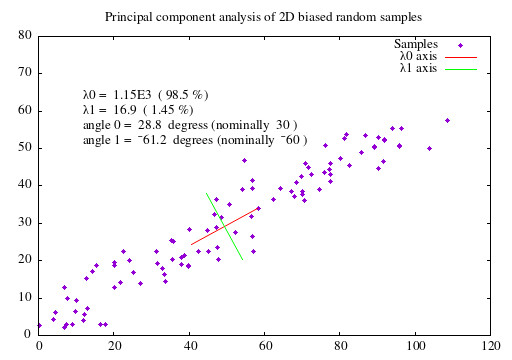
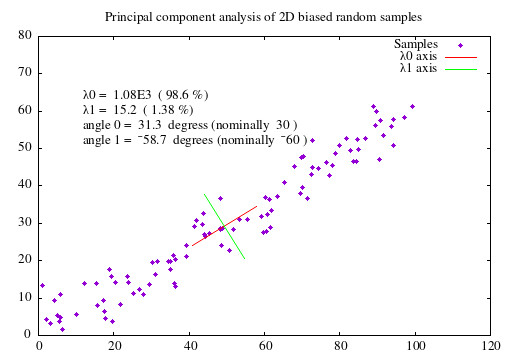
nore update

diff --git a/README.md b/README.md
@@ -57,14 +57,14 @@ It's handy to create named lambdas for the mtx opertions.  The ones I use are:
 <li>eval   ← {mtx['eigenvalue'] ⍵}</li>
 <li>evec   ← {mtx['eigenvector'] ⍵}</li>
 <li>ident  ← {mtx['i'] ⍵}</li>
-<li>cross  ← {⍺ mtx['c'] ⍵}</li>
+<li>crossd ← {⍺ mtx['c'] ⍵}</li>
 <li>crossm ← {mtx['c'] ⍵}</li>
 <li>angle  ← {⍺ mtx['a'] ⍵}</li>
 <li>rotate ← {⍺ mtx['r'] ⍵}</li>
 <li>grand  ← {mtx['g'] ⍵}</li>
 <li>norm   ← {mtx['n'] ⍵}</li>
 <li>homgeneous  ← {⍺ mtx['h'] ⍵}</li>
-<li>cov    ← {⍺ mtx['C'] ⍵}</li>
+<li>covd   ← {⍺ mtx['C'] ⍵}</li>
 <li>covm   ← {mtx['C'] ⍵}</li>
 <li>print  ← {⍺ mtx['p'] ⍵}</li>
 </ul>
@@ -256,10 +256,31 @@ functions:
 
 | lambda       |   function       |                     
 | :----------- | :--------------: |
-| cross        | ⍺ mtx['c'] ⍵ |  
+| crossd       | ⍺ mtx['c'] ⍵ |  
 | crossm       | &nbsp; mtx['c'] ⍵ | 
-| cov          | ⍺ mtx['C'] ⍵ |  
-| crovm        | &nbsp; mtx['C'] ⍵ | 
+| covd         | ⍺ mtx['C'] ⍵ |  
+| crovm        | &nbsp; mtx['C'] ⍵ |
+
+Or, alternatively:
+
+<pre>
+z←l cross r
+→(0≠⎕nc 'l')/Dyadic
+z←mtx['c'] r
+→0
+Dyadic:
+z←l mtx['c'] r
+</pre>
+
+<pre>
+z←l cov r
+→(0≠⎕nc 'l')/Dyadic
+z←mtx['C'] r
+→0
+Dyadic:
+z←l mtx['C'] r
+</pre>
+
 
 #### Cross product
 
@@ -276,7 +297,7 @@ shapes [2 3] or [6 7].  mtx, however, doesn't check this and will happily
 give you a result in any dimensionality and leave it your imagination what
 it may mean.
 
->(1 2 3) cross 4 5 6
+>(1 2 3) crossd 4 5 6
 
 ¯3 6 ¯3
 
@@ -325,7 +346,7 @@ i.e., in this example:
 The dyadic form of covariance returns the covariance of the left and right
 arguments.  E.g.:
 
->2 1 3 cov 3 1 2
+>2 1 3 covd 3 1 2
 
 0.5
 
@@ -377,8 +398,9 @@ The APL for all this:
 
 ---
 <pre>
-m←c pca e;x;y;c;d;el;ec;xb;yb;xa;ya;co;av;s
-⍝c←100
+m←c pca a;x;y;c;d;el;ec;xb;yb;xa;ya;co;av;s;⎕io;m0;m1;h
+⎕io←0
+e←tand a
 x←4×grand c⍴1
 y←4×grand c⍴1
 xb←x+⍳c
@@ -387,26 +409,53 @@ xa←(+/xb)÷⍴xb
 ya←(+/yb)÷⍴yb
 av←xa,ya
 d←2 c⍴xb,yb
-(⍉2 c⍴d) print 'pca.data'
+x←(⍉2 c⍴d) print 'pca.data'
 co←covm d
 el←eval co
 ec←20×evec co
 
-'eigenvectors' print 'pcaeigensystem.txt'
-(ec÷20) print '>pcaeigensystem.txt'
-'eigenvalues' print '>pcaeigensystem.txt'
-el print '>pcaeigensystem.txt'
+x←'eigenvectors' print 'pcaeigensystem.txt'
+x←(ec÷20) print '>pcaeigensystem.txt'
+x←'eigenvalues' print '>pcaeigensystem.txt'
+x←el print '>pcaeigensystem.txt'
 
 xa← 100×(1↑el)÷+/el
 xb← 100×(¯1↑el)÷+/el
 
-s←⍕'set label "λ0 = ', (1↑el), ' (', xa, '%)" at graph .2,.8'
-s print 'pcalabels.gp'
-s←⍕'set label "λ1 = ', (¯1↑el), ' (', xb, '%)" at graph .2,.75'
-s print '>pcalabels.gp'
+h←'w' ⎕fio[3] 'pcalabels.gp'   ⍝ open
 
-(2 2⍴(av-(ec[⎕io;])÷2),av+(ec[⎕io;])÷2) print 'pcae1.data'
-(2 2⍴(av-(ec[⎕io+1;])÷2),av+(ec[⎕io+1;])÷2) print 'pcae2.data'
+s←⍕'set label "λ0 = ', (1↑el), ' (', xa, '%)" at graph .1,.8'
+x←'%s' s ⎕fio[22] h  ⍝ fwrite
+x←⎕fio[16] h ⍝ flush
+x←10⎕fio[42] h     ⍝ newline
+⍝x←⎕fio[16] h ⍝ flush
+
+s←⍕'set label "λ1 = ', (¯1↑el), ' (', xb, '%)" at graph .1,.75'
+x←'%s' s ⎕fio[22] h  ⍝ fwrite
+x←⎕fio[16] h ⍝ flush
+x←10⎕fio[42] h     ⍝ newline
+⍝x←⎕fio[16] h ⍝ flush
+
+m0←atand ec[0;1]÷ec[0;0]
+m1←atand ec[1;1]÷ec[1;0]
+
+s←⍕'set label "angle 0 = ', m0, ' degress (nominally ', a, ')" at graph .1,.7'
+x←'%s' s ⎕fio[22] h  ⍝ fwrite
+x←⎕fio[16] h ⍝ flush
+x←10⎕fio[42] h     ⍝ newline
+
+s←⍕'set label "angle 1 = ', m1, ' degrees (nominally ', (a-90), ')" at graph .1,.65'
+x←'%s' s ⎕fio[22] h  ⍝ fwrite
+x←⎕fio[16] h ⍝ flush
+x←10⎕fio[42] h     ⍝ newline
+
+x←⎕fio[4] h
+
+
+x←(2 2⍴(av-(ec[0;])÷2),av+(ec[0;])÷2) print 'pcae1.data'
+x←(2 2⍴(av-(ec[1;])÷2),av+(ec[1;])÷2) print 'pcae2.data'
+
+
 </pre>
 ---
 
@@ -427,6 +476,10 @@ plot  [0:120][0:80] "pca.data" using 1:2 with points pt 7 ps .75 t 'Samples', \
    "pcae2.data" using 1:2 with lines lc "green" t "λ1 axis"
 </pre>
 ---
+
+The gnuplot data was created by:
+
+>200 pca 30
 
 <pre>
 
